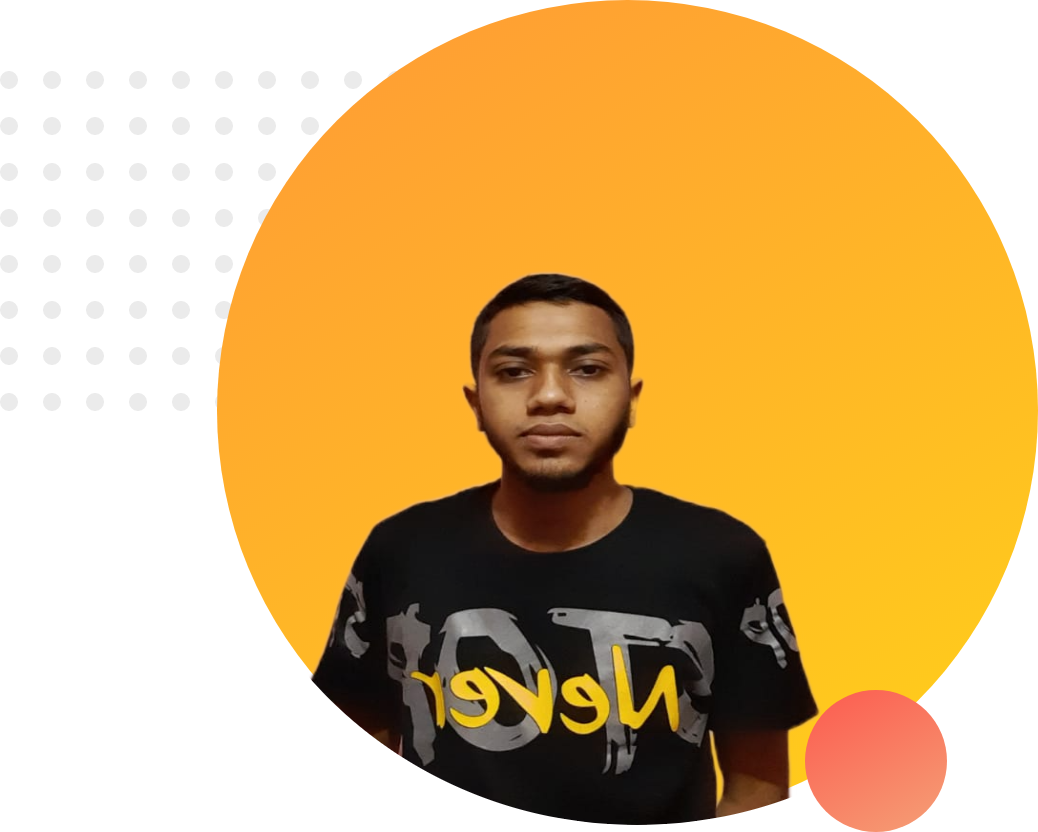
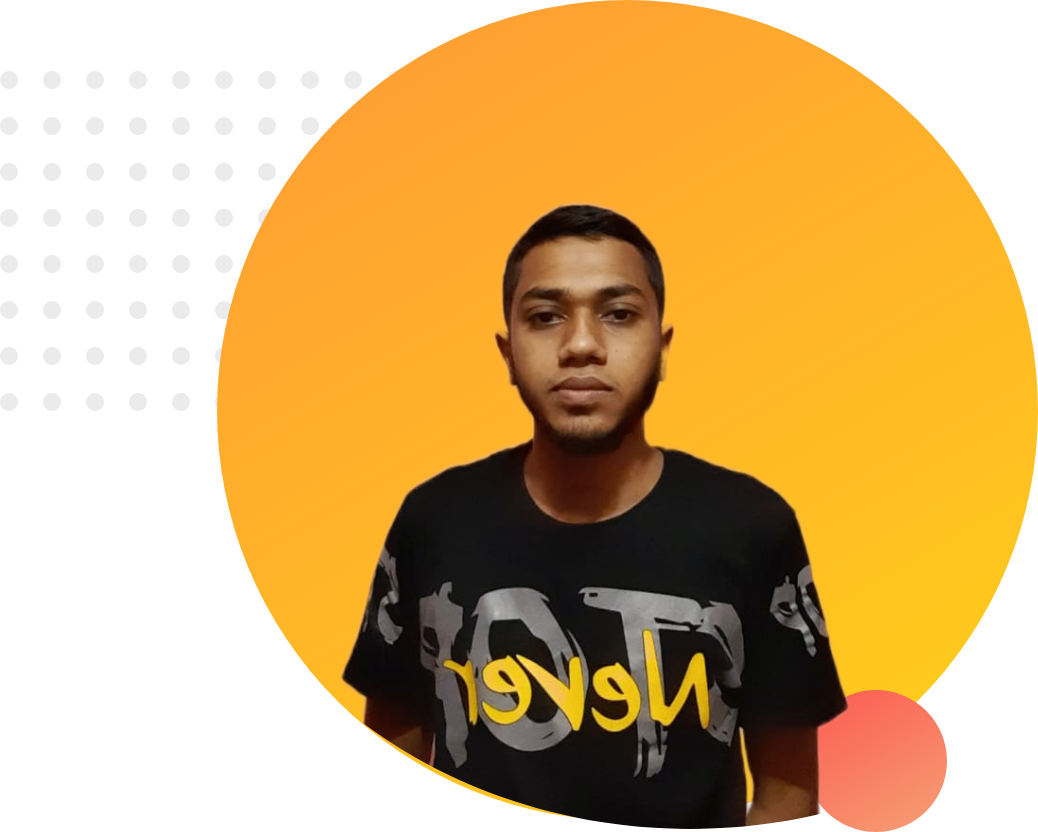
Finished my first ever website

Changed region(s): [[0.2775, 0.2188, 0.8324, 1.0], [0.4933, 0.9688, 0.5857, 1.0]]

diff --git a/index.html b/index.html
@@ -14,15 +14,50 @@
    <section class="top-banner">
        <div class="half-width">
             <h1>Welcome To </h1>
-            <h1><span class="name-highlight">Eayaz</span> Website</h1>
+            <h1><span class="orange-highlight">Eayaz</span> Website</h1>
             <h3>World-class professional Web Dev</h3>
             <p>Hi my name is eayaz. I am a web Developer. I am learning web development. I will not stop untill i become the web development hero.</p>
+            <a class="link-button" target="_blank" href="https://www.fiverr.com/amazuddin439?up_rollout=true"> HIRE ME</a>
        </div>
        <div class="half-width">
            <img src="images/profile1.png">
 
        </div>
    </section>
+   <section class="dream-area">
+       <div class="half-width">
+           <img src="images/profile2.png" alt="">
+
+       </div>
+       <div class="half-width">
+           <h2>Big Dream</h2>
+           <h3 class="orange-highlight">Become World's No. 1 Developer.</h3>
+           <p>I already learned the basic HTML and CSS. I can build any simple Website. My goal is to build 3 Website and learned advanced topics.</p>
+           <a class="link-button"target="_blank" href="https://www.facebook.com/eayaz.uddin.7">DOWNLOAD RESUME</a>
+
+       </div>
+
+    </section>
+
+   <section class="experience-area">
+       <h2>Experience</h2>
+       <div id="full-stack" class="half-width single-experience">
+           <h2>Full Stack Web Dev</h2>
+           <h3 class="orange-highlight">2021 - present | Pro Level Web Dev </h3>
+           <p>I am the master of HTML, CSS, and Javascript. I know everything needed to make a website function, efficient. I did't stop with the web. I went beyond with most popular Javascript framowork called Vue Js. Ieven know the development, server and security. I will give you 100% web solution. </p>
+
+       </div>
+       <div id="baby-web" class="half-width single-experience">
+           <h2>Baby Web Developer</h2>
+           <h3 class="orange-highlight">2020 - 2021 | Progmming Hero Lerner</h3>
+           <p>They didn't offer me a job. But i made myself as a remote web developer. I made their website and showed it to them. They liked it and uploaded the content. It was fun working at Progmming Hero.</p>
+
+       </div>
+
+   </section>
+   <footer>
+       <p> copy right Eayaz 2021, all rights reserved </p>
+   </footer>
     
 </body>
 </html>

diff --git a/style.css b/style.css
@@ -2,17 +2,70 @@ body{
     margin: 0;
     font-family: 'Poppins', sans-serif;}
 h1{
-    font-size: 4opx;
+    font-size: 40px;
 }
-.name-highlight{
+h2{
+    font-size: 30px;
+}
+p{
+    color: dimgray;
+}
+.orange-highlight{
     color: orange;
 }
 .half-width{
-    width: 40%;
+    width: 35%;
     float: left;
     margin-left: 5%;
-    padding-left: 2%;
+    padding-left: 4%;
 }
 .half-width img{
     width: 100%;
+}
+.top-banner{
+    background-image: url("images/top-banner.png");
+    background-repeat: no-repeat;
+}
+section{
+    height: 500px;
+    padding-bottom: 50px;
+}
+.link-button{
+    text-decoration: none;
+    background-image: linear-gradient(45deg, lightsalmon, tomato);
+    padding: 10px 20px;
+    border-radius: 5px;
+    color: white;
+    font-weight: 700;
+}
+.dream-area{
+    background-image: url("images/dream-bg.png");
+    background-repeat: no-repeat;
+    background-position: right;
+}
+.single-experience{
+    box-shadow: 10px 10px 40px gray;
+    border-radius: 5px;
+    height: 60%;
+    background-color: white
+}
+.experience-area{
+    background-image: url("images/exp-bg.png");
+    background-repeat: no-repeat;
+    background-position: left ;
+}
+#full-stack{
+    border-left: 7px solid;
+    border-image: linear-gradient(180deg, lightsalmon, tomato);
+    border-image-slice: 1;
+}
+#baby-web{
+    border-left: 7px solid;
+    border-image: linear-gradient(180deg, blue, cyan);
+    border-image-slice: 1;
+
+}
+footer p{
+    text-align: center;
+    font-size: 12px;
 }
